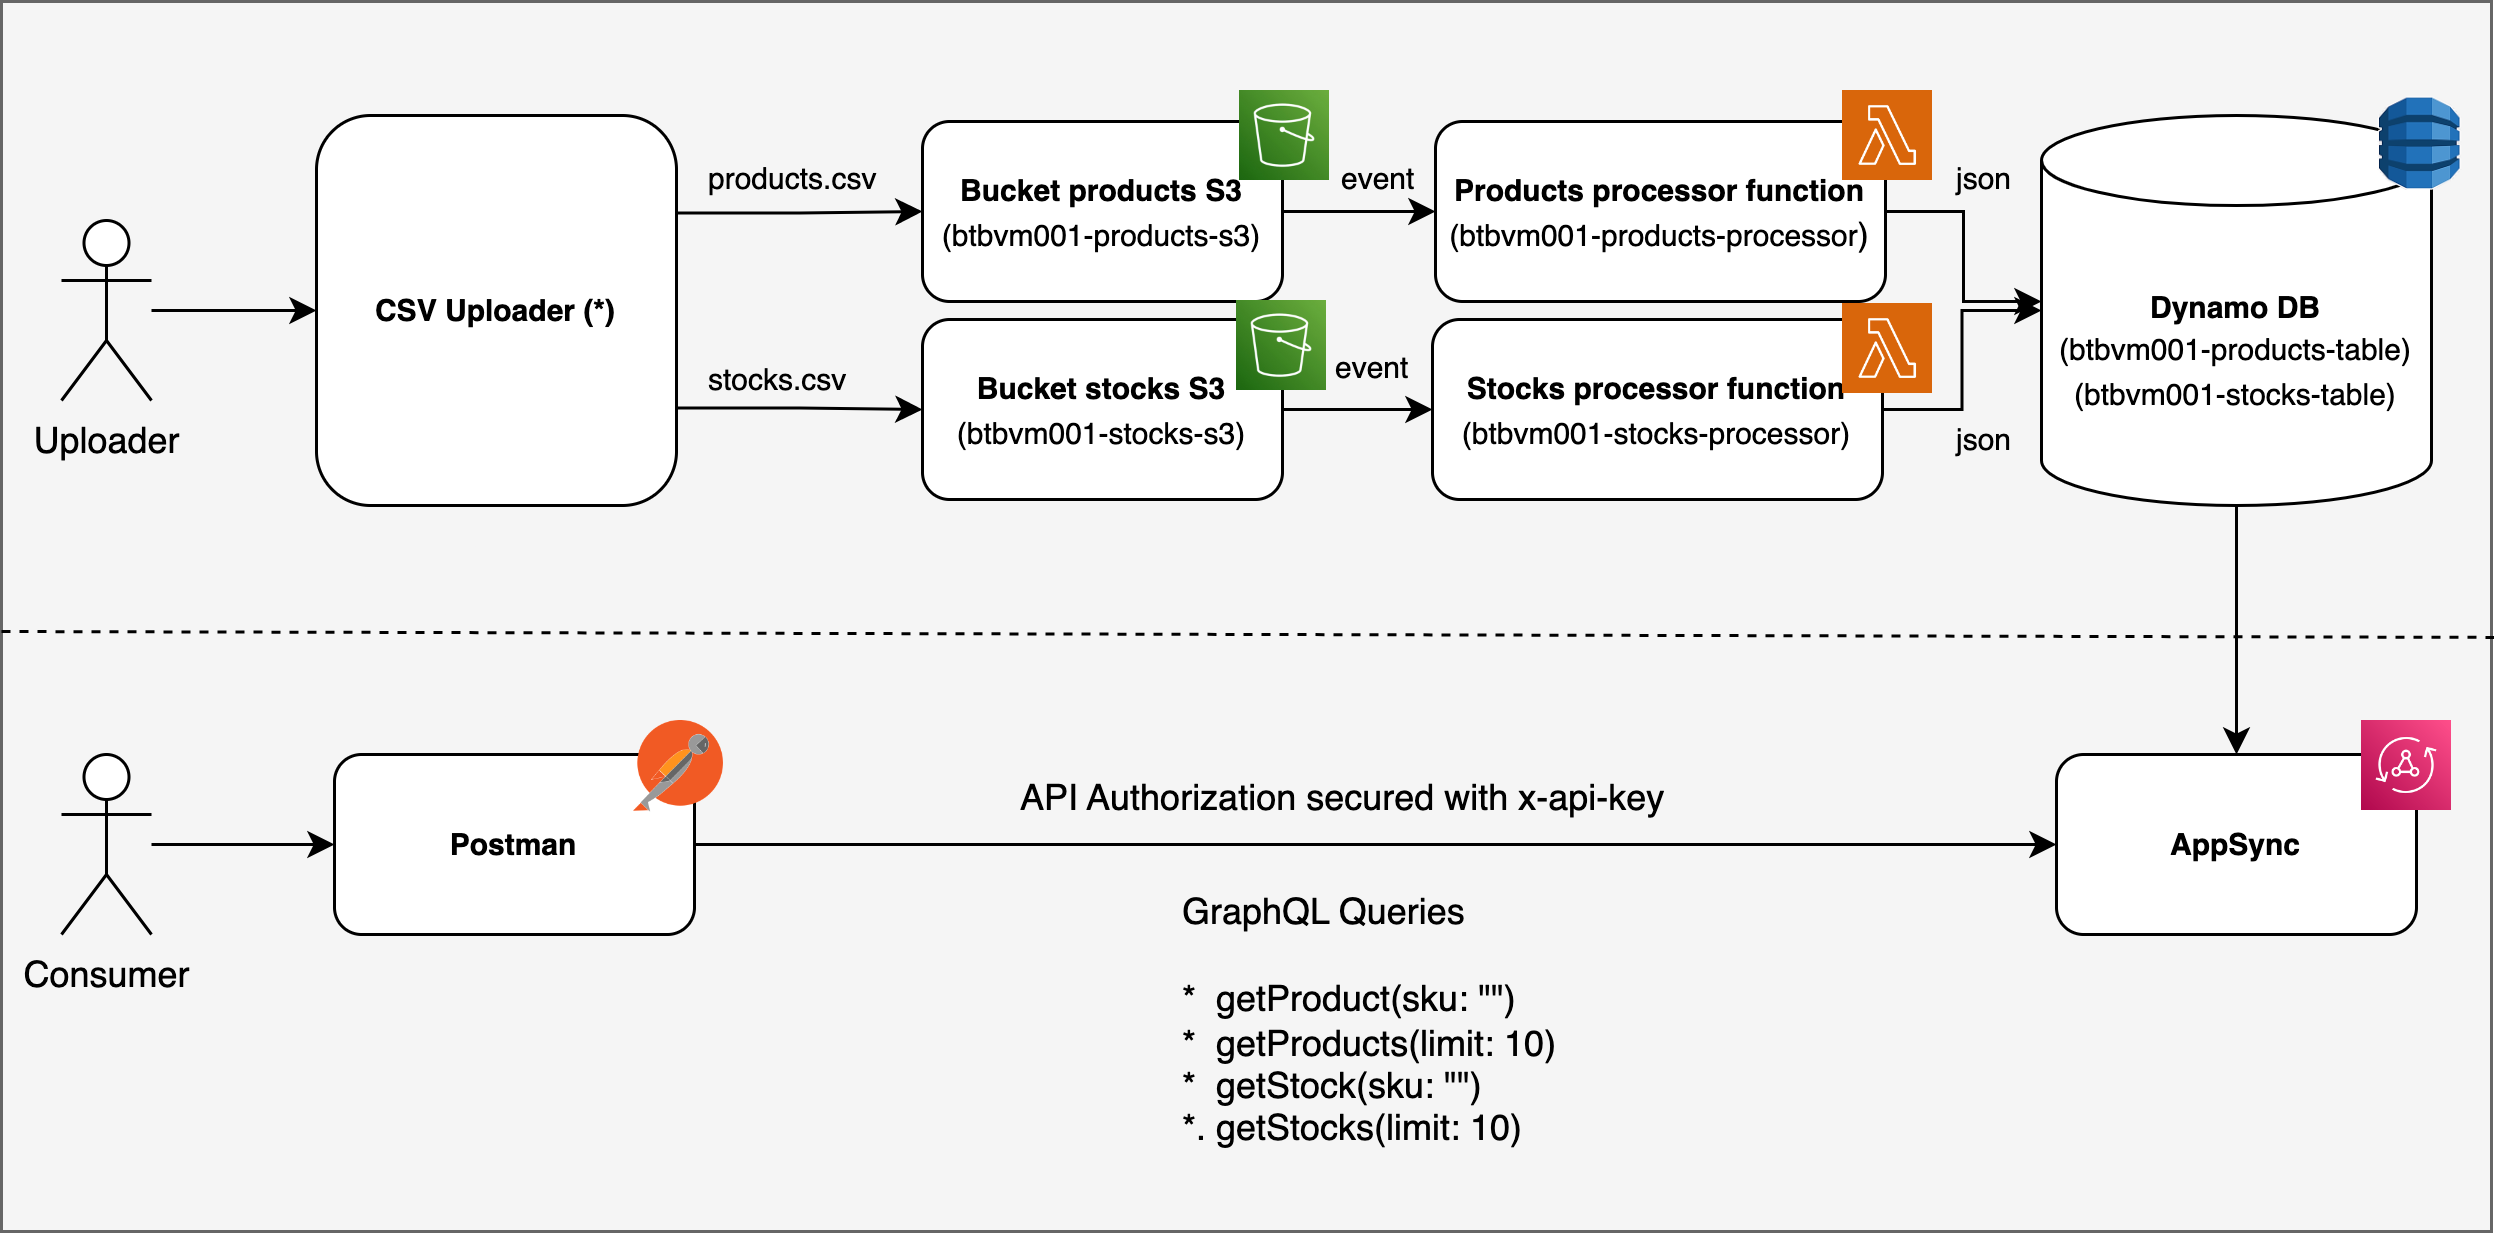
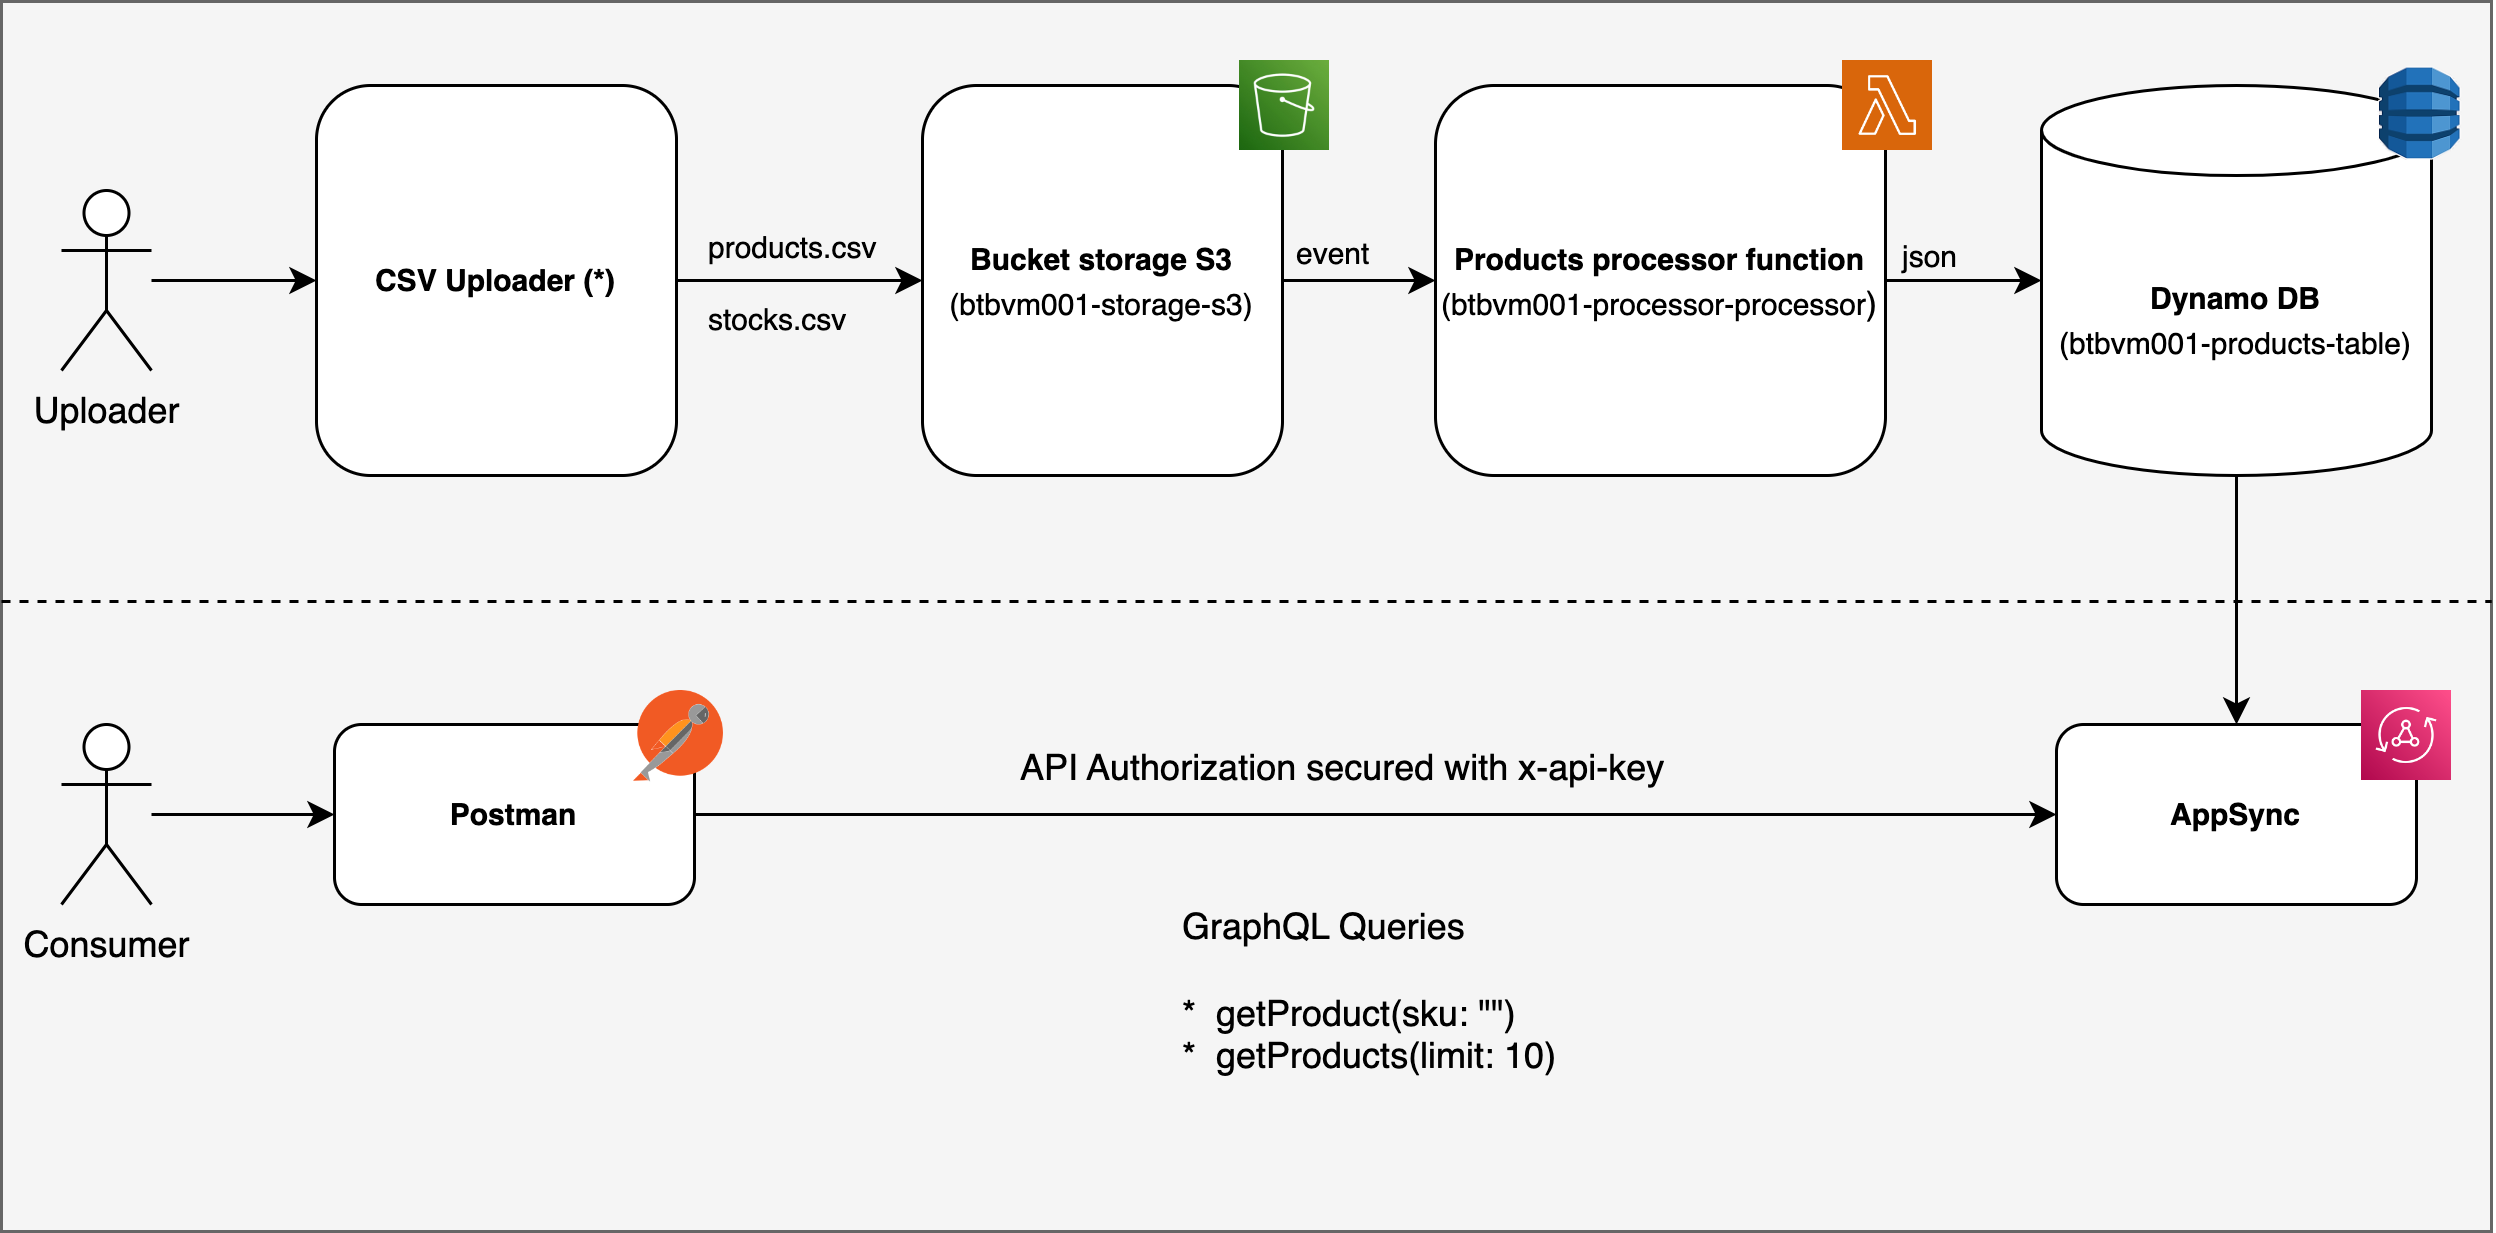
Solution fixed

diff --git a/Processor/ProcessorFunctions/app.js b/Processor/ProcessorFunctions/app.js
@@ -7,14 +7,19 @@ AWS.config.region = process.env.AWS_REGION;
 const s3 = new AWS.S3();
 const docClient = new AWS.DynamoDB.DocumentClient();
 
+const DDB_TABLE = process.env.PRODUCT_TABLE
+const SCHEMA_TYPE = Object.freeze({
+  product: 1,
+  stock: 2,
+});
+
 // The Lambda handler
-exports.productHandler = async (event) => {
-  const ddbTable = process.env.PRODUCT_TABLE;
+exports.processorHandler = async (event) => {
   console.log('Product function running...');
   await Promise.all(
     event.Records.map(async (record) => {
       try {
-        console.log('Dynamo table name: ', ddbTable);
+        console.log('Dynamo table name: ', DDB_TABLE);
         console.log('Bucket name event: ', record.s3.bucket.name);
         console.log('Bucket key event: ', record.s3.object.key);
         const originalText = await s3.getObject({
@@ -24,81 +29,77 @@ exports.productHandler = async (event) => {
         const parsed = Papa.parse(originalText.Body.toString('utf-8'), { header: true, delimiter: ",", skipEmptyLines: true });
         const fields = parsed.meta.fields.map(str => str.toLowerCase());
         console.log("Fields ", fields);
-        if (fields.indexOf("sku") !== -1 && fields.indexOf("name") !== -1 && fields.indexOf("price") !== -1)
-          await ddbLoader(parsed.data, ddbTable);
-        else
-          console.error("Invalid CSV format for ", record.s3.object.key);
-      } catch (err) {
-        console.error(err)
-      }
-    })
-  )
-}
-
-exports.stockHandler = async (event) => {
-  const ddbTable = process.env.STOCK_TABLE;
-  console.log('Stock function running...');
-  await Promise.all(
-    event.Records.map(async (record) => {
-      try {
-        console.log('Dynamo table name: ', ddbTable);
-        console.log('Bucket name event: ', record.s3.bucket.name);
-        console.log('Bucket key event: ', record.s3.object.key);
-        const originalText = await s3.getObject({
-          Bucket: record.s3.bucket.name,
-          Key: record.s3.object.key
-        }).promise();
-        const parsed = Papa.parse(originalText.Body.toString('utf-8'), { header: true, delimiter: ",", skipEmptyLines: true });
-        const fields = parsed.meta.fields.map(str => str.toLowerCase());
-        if (fields.indexOf("sku") !== -1 && fields.indexOf("quantity") !== -1)
-          await ddbLoader(parsed.data, ddbTable);
-        else
-          console.error("Invalid CSV format for ", record.s3.object.key);
-      } catch (err) {
-        console.error(err)
-      }
-    })
-  )
-}
-
-// Load JSON data to DynamoDB table
-const ddbLoader = async (data, ddbTable) => {
-  // Separate into batches for upload
-  let batches = []
-  const BATCH_SIZE = 25
-  while (data.length > 0) {
-    batches.push(data.splice(0, BATCH_SIZE))
-  }
-  console.log(`Total batches: ${batches.length}`)
-  let batchCount = 0
-
-  await Promise.all(
-    batches.map(async (item_data) => {
-      const params = {
-        RequestItems: {}
-      }
-      params.RequestItems[ddbTable] = []
-      item_data.forEach(item => {
-        for (let key of Object.keys(item)) {
-          if (item[key] === '')
-            delete item[key]
+        if ((fields.indexOf("sku") !== -1 && fields.indexOf("name") !== -1 && fields.indexOf("price") !== -1))
+          await ddbLoader(parsed.data, SCHEMA_TYPE.product);
+        else if ((fields.indexOf("sku") !== -1 && fields.indexOf("quantity") !== -1)) {
+          await ddbLoader(parsed.data, SCHEMA_TYPE.stock);
         }
-        params.RequestItems[ddbTable].push({
-          PutRequest: {
-            Item: {
-              ...item,
-              updated: Date.now()
-            }
-          }
-        })
-      })
-      try {
-        batchCount++;
-        const result = await docClient.batchWrite(params).promise();
-        console.log('Batch: ', batchCount, ' Success: ', result);
+        else
+          console.error("Invalid CSV format for ", record.s3.object.key);
       } catch (err) {
-        console.error('Batch: ', batchCount, ' Error: ', err)
+        console.error(err)
       }
     })
   )
+}
+
+const ddbLoader = async (data, schemaType) => {
+  let schemaTypeString = "";
+  const updateRequests = data.map((item) => {
+    let updateRequest = null;
+    if (schemaType === SCHEMA_TYPE.product) {
+      schemaTypeString = "Product"
+      updateRequest = createProductsRequest(item);
+    }
+    else {
+      schemaTypeString = "Stock"
+      updateRequest = createStocksRequest(item);
+    }
+    return docClient.update(updateRequest).promise();
+  });
+  try {
+    await Promise.all(updateRequests);
+    console.log("Success upload for ", schemaTypeString);
+
+  } catch (error) {
+    console.error('Error during batch update operation:', error);
+  }
+};
+
+const createProductsRequest = (item) => {
+  return {
+    TableName: DDB_TABLE,
+    Key: {
+      sku: item.sku,
+    },
+    UpdateExpression: 'set #name = :name, #price = :price, #updated = :updated',
+    ExpressionAttributeNames: {
+      '#name': 'name',
+      '#price': 'price',
+      '#updated': 'updated'
+    },
+    ExpressionAttributeValues: {
+      ':name': item.name,
+      ':price': item.price,
+      ':updated': Date.now()
+    },
+  };
+}
+
+const createStocksRequest = (item) => {
+  return {
+    TableName: DDB_TABLE,
+    Key: {
+      sku: item.sku,
+    },
+    UpdateExpression: 'set #quantity = :quantity, #updated = :updated',
+    ExpressionAttributeNames: {
+      '#quantity': 'quantity',
+      '#updated': 'updated'
+    },
+    ExpressionAttributeValues: {
+      ':quantity': item.quantity,
+      ':updated': Date.now()
+    },
+  };
 }

diff --git a/Uploader/uploader.js b/Uploader/uploader.js
@@ -4,8 +4,7 @@ require('dotenv').config();
 AWS.config.update({ region: 'eu-west-3' });
 const s3 = new AWS.S3({ apiVersion: '2006-03-01' });
 
-const productBucketName = process.env.PRODUCTS_BUCKET_NAME;
-const stockBucketName = process.env.STOCKS_BUCKET_NAME;
+const storageBucketName = process.env.STORAGE_BUCKET_NAME;
 const productPath = './csv/products.csv';
 const stockPath = './csv/stocks.csv';
 const productKey = "products_" + Date.now() + ".csv";
@@ -15,12 +14,12 @@ const productFile = fs.readFileSync(productPath);
 const stockFile = fs.readFileSync(stockPath);
 
 const productParams = {
-    Bucket: productBucketName,
+    Bucket: storageBucketName,
     Key: productKey,
     Body: productFile
 };
 const stockParams = {
-    Bucket: stockBucketName,
+    Bucket: storageBucketName,
     Key: stockKey,
     Body: stockFile
 };

diff --git a/README.md b/README.md
@@ -4,21 +4,13 @@
 
 ![](img/architecture.png)
 
-The proposed solution is designed to ensure the storage of two types of .csv files and make the data available to the user through a GraphQL API protected by an API key.
+The proposed solution aims to facilitate the storage of two types of .csv files, namely Products and Stocks, and enable users to access the data through a GraphQL API that is secured by an API key.
 
-The file types are:
-- **Products** with properties sku, name, price
-- **Stocks with** properties sku, quantity
+To upload the files into the Buckets, a CSV-Uploader is utilized, which is currently a simple JavaScript script instead of an ideal web interface.
 
+Once the files are loaded into the Bucket, an event is triggered to call a Lambda function. This function is responsible for verifying that the .csv files are well-formed, parsing them into .json format, and then sending them to a DynamoDB table. The standard output of the function is stored in CloudWatch. The DynamoDB table contains the merged records of the products and stocks data.
 
-The loading of the files into their respective Buckets is ensured by a CSV-Uploader, which ideally should be a web interface, but in this case, it is a simple JavaScript script.
-
-Loading the file into the respective bucket triggers an event that calls a **Lambda function**.
-
-The Lambda function's task is to read the .csv file, verify that it is well-formed, parse it into .json format, and then send the various elements to the appropriate DynamoDB table. The function's standard output is saved in **CloudWatch**.
-
-**AppSync** is the AWS service dedicated to exposing GraphQL endpoints. AppSync performs mapping and makes the indexed results available to an https client (e.g., Postman).
-
+AppSync is an AWS service that specializes in exposing GraphQL endpoints. AppSync maps with the DynamoDB table and provides indexed results to an https client, such as Postman.
 
 ## 2. How to run the code
 
@@ -44,8 +36,7 @@ It is possible to upload the ```products.csv``` and ```stocks.csv``` files using
 Before running the commands for file upload, a ```.env``` file, that contains the bucket names, **MUST BE CREATED** in the Uploader folder. Below is an example of the ```.env``` file.
 
 ```txt
-PRODUCTS_BUCKET_NAME="<<INSERT PRODUCTS BUCKET NAME HERE>>"
-STOCKS_BUCKET_NAME="<<INSERT STOCKS BUCKET NAME HERE>>"
+STORAGE_BUCKET_NAME="<<INSERT PRODUCTS BUCKET NAME HERE>>"
 ```
 
 To upload the files run the following commands:
@@ -72,13 +63,11 @@ Below are some examples of queries.
 
 ## 3. Technical debts
 - [ ] Implementation of a web interface for file upload
-- [ ] Lambda function optimization: The code for the two lambda functions is repeated and should be consolidated into a shared function.
 - [ ] Security improvement. Switch to AppSync API_KEY authentication to AWS Cognito. 
   - [ ] In AppSync, it's possible to use Cognito as an authentication provider to authenticate and authorize API calls to your AppSync API. This enables you to control access to specific fields or types based on user roles, and also allows you to track user activity and enforce security policies. 
   - [ ] It can be possible to use Cognito to control access to your S3 buckets.
 - [ ] Plan for deployment in environments (dev, test, quality, prod)
-- [ ] Improve integration with Cloudwatch for logging
-- [ ] Implement filters for GraphQL queries (getProducts, getStocks)
+- [ ] Improve integration with Cloudwatch for logging all services activities
 
 
 
